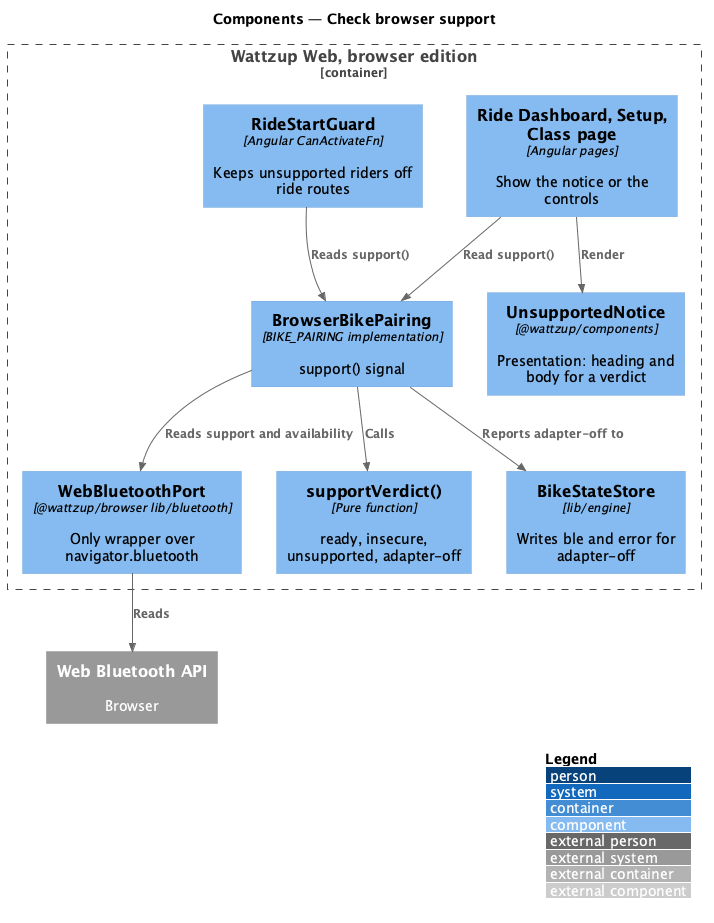
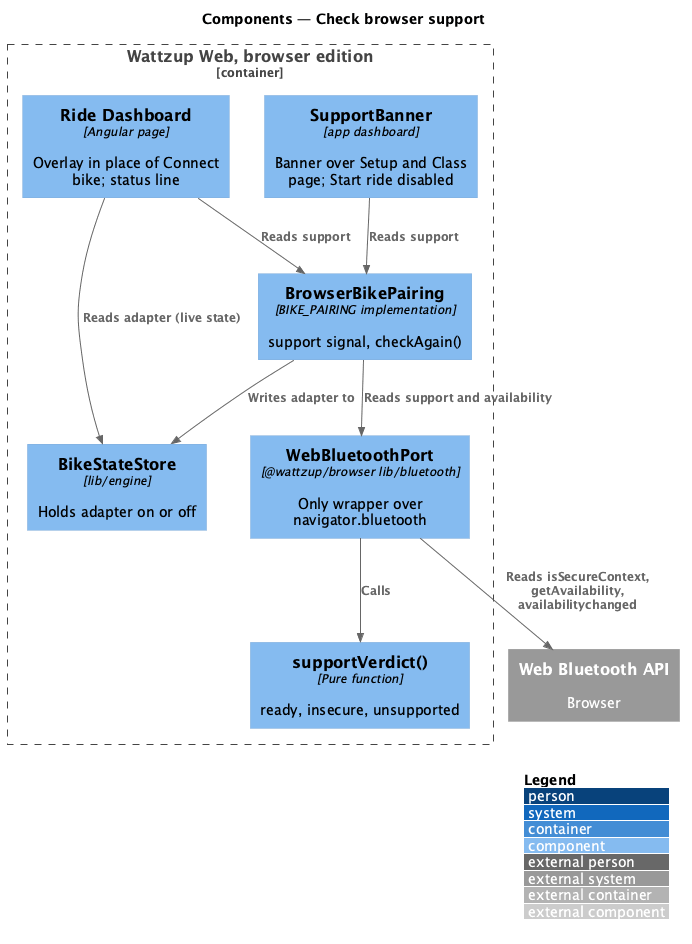
Block starting a ride on setup and class pages the browser cannot ride from (L2-089)
SupportBanner shows the browser mocks' warning banner under the header
of Ride Setup and a class page when Web Bluetooth is missing or the
page is on plain http: Copy link, or Open over HTTPS through the
alert's new link action. The page stays usable; Start ride is
disabled and described by the reason under it. supportNotice words
both, with unit tests.

Claude-Session: https://claude.ai/code/session_01LjZiMpoGntqpkHCTb1UvJf

diff --git a/frontend/e2e/browser/support.spec.ts b/frontend/e2e/browser/support.spec.ts
@@ -2,10 +2,12 @@
 // Traces to: L2-089
 // Description: The ride dashboard says why a ride cannot start when the browser has no Web
 // Bluetooth, the page is not on HTTPS, or the device's Bluetooth is off, and offers no Connect
-// bike; with Bluetooth back on, Connect bike returns. Classes stay readable.
+// bike; with Bluetooth back on, Connect bike returns. Classes stay readable. Setup and class pages
+// stay usable under a banner, with Start ride disabled.
 import { expect, test } from './fixtures/browser-test';
 import { BrowserClassesPage } from './pages/browser-classes.page';
 import { BrowserRidePage } from './pages/browser-ride.page';
+import { BrowserSetupPage } from './pages/browser-setup.page';
 
 test('a browser without Web Bluetooth says to open Wattzup in Chrome or Edge; classes stay readable', async ({
   page,
@@ -58,4 +60,34 @@ test('Bluetooth off says so in the status line, and Connect bike returns once it
   await expect(ride.connectButton).toBeVisible();
   await expect(ride.notice).toHaveCount(0);
   expect(await bluetooth.count('requestDevice')).toBe(0);
+});
+
+test('setup without Web Bluetooth stays usable under a banner, with Start ride disabled', async ({
+  page,
+  bluetooth,
+}) => {
+  await bluetooth.removeBeforeLoad();
+  const setup = new BrowserSetupPage(page);
+  await setup.goto();
+  await expect(setup.banner).toContainText('Open Wattzup in Chrome or Edge.');
+  await expect(setup.banner.getByRole('button', { name: 'Copy link' })).toBeVisible();
+  await expect(setup.startButton).toBeDisabled();
+  await expect(setup.startHint).toHaveText('Needs Chrome or Edge to reach the bike.');
+});
+
+test('a class page on plain http offers the HTTPS page, with Start ride disabled', async ({
+  page,
+  bluetooth,
+}) => {
+  await bluetooth.insecureBeforeLoad();
+  const classes = new BrowserClassesPage(page);
+  await classes.openLibrary();
+  await classes.cards.first().click();
+  await expect(classes.banner).toContainText('Open the secure version of this page.');
+  await expect(classes.banner.getByRole('link', { name: 'Open over HTTPS' })).toHaveAttribute(
+    'href',
+    page.url().replace(/^http:/, 'https:'),
+  );
+  await expect(classes.startButton).toBeDisabled();
+  await expect(classes.startHint).toHaveText('Needs the HTTPS page to reach the bike.');
 });

diff --git a/frontend/projects/wattzup/src/app/dashboard/class-page/class-page.ts b/frontend/projects/wattzup/src/app/dashboard/class-page/class-page.ts
@@ -14,7 +14,9 @@ import {
 import { Title } from '@angular/platform-browser';
 import { HttpErrorResponse } from '@angular/common/http';
 import { Router, RouterLink } from '@angular/router';
-import { CLASS_API, type ClassEntry, WORKOUT_API } from '@wattzup/api';
+import { BIKE_PAIRING, CLASS_API, type ClassEntry, WORKOUT_API } from '@wattzup/api';
+import { supportNotice } from '../../core/support-notice';
+import { SupportBanner } from '../support-banner/support-banner';
 import { Alert, Icon, LevelRow, NumberStepper, StatusLine } from '@wattzup/components';
 import {
   cadenceLine,
@@ -47,7 +49,16 @@ type Phase = 'loading' | 'ready' | 'not-found';
 /** Route `/classes/:id`: one class, its video and plan, and Start ride (L2-080). */
 @Component({
   selector: 'wz-class-page',
-  imports: [Alert, ClassNotFound, Icon, LevelRow, NumberStepper, RouterLink, StatusLine],
+  imports: [
+    Alert,
+    ClassNotFound,
+    Icon,
+    LevelRow,
+    NumberStepper,
+    RouterLink,
+    StatusLine,
+    SupportBanner,
+  ],
   templateUrl: './class-page.html',
   styleUrl: './class-page.scss',
   changeDetection: ChangeDetectionStrategy.OnPush,
@@ -71,6 +82,12 @@ export class ClassPage {
   protected readonly entry = signal<ClassEntry | null>(null);
   protected readonly draft = signal<ClassDraft | null>(null);
   protected readonly busy = signal(false);
+  /** Why Start ride is disabled when the browser cannot reach Bluetooth (L2-089 AC1, AC3). */
+  protected readonly startBlocked = computed(
+    () => supportNotice(this.pairing.support(), '')?.startHint ?? null,
+  );
+  private readonly pairing = inject(BIKE_PAIRING);
+
   protected readonly startFailed = signal(false);
 
   protected readonly preview = computed(() => {

diff --git a/frontend/projects/wattzup/src/app/core/support-notice.ts b/frontend/projects/wattzup/src/app/core/support-notice.ts
@@ -1,0 +1,39 @@
+// What setup and a class page say when the browser edition cannot reach Bluetooth (L2-089 AC1,
+// AC3): a banner over a page that stays usable, and why Start ride is disabled.
+import type { BluetoothSupport } from '@wattzup/api';
+
+export interface SupportNotice {
+  icon: 'monitor-off' | 'lock';
+  heading: string;
+  text: string;
+  actionLabel: 'Copy link' | 'Open over HTTPS';
+  /** The HTTPS address to open; null when the action copies the page's own address. */
+  href: string | null;
+  /** Under the disabled Start ride. */
+  startHint: string;
+}
+
+export function supportNotice(support: BluetoothSupport, pageUrl: string): SupportNotice | null {
+  switch (support) {
+    case 'unsupported':
+      return {
+        icon: 'monitor-off',
+        heading: 'Open Wattzup in Chrome or Edge.',
+        text: 'Bluetooth to the bike only works there — you can look around, but not ride.',
+        actionLabel: 'Copy link',
+        href: null,
+        startHint: 'Needs Chrome or Edge to reach the bike.',
+      };
+    case 'insecure':
+      return {
+        icon: 'lock',
+        heading: 'Open the secure version of this page.',
+        text: 'Bluetooth is blocked on plain http, so the bike can’t connect.',
+        actionLabel: 'Open over HTTPS',
+        href: pageUrl.replace(/^http:/, 'https:'),
+        startHint: 'Needs the HTTPS page to reach the bike.',
+      };
+    default:
+      return null;
+  }
+}

diff --git a/frontend/projects/wattzup/src/app/dashboard/setup-page/setup-page.ts b/frontend/projects/wattzup/src/app/dashboard/setup-page/setup-page.ts
@@ -11,7 +11,9 @@ import {
 import { Router, RouterLink } from '@angular/router';
 import { DialogLauncher } from '../../core/dialog-launcher';
 import { formatDuration } from '../../core/format-duration';
-import { type StartPlan, WORKOUT_API } from '@wattzup/api';
+import { BIKE_PAIRING, type StartPlan, WORKOUT_API } from '@wattzup/api';
+import { supportNotice } from '../../core/support-notice';
+import { SupportBanner } from '../support-banner/support-banner';
 import { planVideo } from '../../core/video-link';
 import { LiveStateService } from '../../core/live-state.service';
 import { liveConnectionStatus } from '../../core/connection-status';
@@ -79,6 +81,7 @@ type StartError = { kind: 'invalid'; messages: string[] } | { kind: 'failed' };
 @Component({
   selector: 'wz-setup-page',
   imports: [
+    SupportBanner,
     Alert,
     FormSummary,
     Icon,
@@ -162,6 +165,12 @@ export class SetupPage {
 
   protected readonly loading = computed(() => !this.live.state() && !this.live.loadFailed());
   protected readonly busy = signal(false);
+  /** Why Start ride is disabled when the browser cannot reach Bluetooth (L2-089 AC1, AC3). */
+  protected readonly startBlocked = computed(
+    () => supportNotice(this.pairing.support(), '')?.startHint ?? null,
+  );
+  private readonly pairing = inject(BIKE_PAIRING);
+
   protected readonly startError = signal<StartError | null>(null);
 
   constructor() {

diff --git a/frontend/projects/wattzup/src/app/dashboard/support-banner/support-banner.ts b/frontend/projects/wattzup/src/app/dashboard/support-banner/support-banner.ts
@@ -1,0 +1,32 @@
+import { ChangeDetectionStrategy, Component, computed, inject, signal } from '@angular/core';
+import { BIKE_PAIRING } from '@wattzup/api';
+import { Alert } from '@wattzup/components';
+import { supportNotice } from '../../core/support-notice';
+
+/** The banner under the header of setup and a class page when the browser edition cannot reach
+ * Bluetooth (L2-089). The page stays usable; only starting a ride is blocked. */
+@Component({
+  selector: 'wz-support-banner',
+  imports: [Alert],
+  templateUrl: './support-banner.html',
+  styleUrl: './support-banner.scss',
+  changeDetection: ChangeDetectionStrategy.OnPush,
+})
+export class SupportBanner {
+  private readonly pairing = inject(BIKE_PAIRING);
+  protected readonly notice = computed(() => supportNotice(this.pairing.support(), location.href));
+  /** Copy link reads Link copied for 1.6 s, as on the ride dashboard. */
+  protected readonly copied = signal(false);
+  private timer: ReturnType<typeof setTimeout> | null = null;
+
+  protected async copy(): Promise<void> {
+    try {
+      await navigator.clipboard.writeText(location.href);
+    } catch {
+      return;
+    }
+    this.copied.set(true);
+    if (this.timer) clearTimeout(this.timer);
+    this.timer = setTimeout(() => this.copied.set(false), 1600);
+  }
+}

diff --git a/frontend/projects/wattzup/src/app/dashboard/setup-page/setup-page.html b/frontend/projects/wattzup/src/app/dashboard/setup-page/setup-page.html
@@ -14,6 +14,7 @@
       ><wz-icon name="close" size="sm" />Close</a
     >
   </header>
+  <wz-support-banner />
   <div class="setup-layout">
     <main id="main" class="setup-main" tabindex="-1" [attr.aria-busy]="loading() ? 'true' : null">
       <div class="setup-main__inner">
@@ -170,14 +171,18 @@
       <button
         class="btn btn--volt btn--xl btn--block"
         type="button"
-        [disabled]="loading() || busy() || links().length > 0"
+        [disabled]="loading() || busy() || links().length > 0 || startBlocked() !== null"
         [attr.aria-busy]="busy() ? 'true' : null"
-        [attr.aria-describedby]="links().length ? 'start-hint' : null"
+        [attr.aria-describedby]="
+          startBlocked() !== null ? 'start-blocked' : links().length ? 'start-hint' : null
+        "
         (click)="start()"
       >
         {{ busy() ? 'Starting…' : startError() ? 'Try again' : 'Start ride' }}
       </button>
-      @if (links().length) {
+      @if (startBlocked(); as hint) {
+        <p id="start-blocked" class="text-muted text-sm setup-start-hint">{{ hint }}</p>
+      } @else if (links().length) {
         <p id="start-hint" class="text-muted text-sm setup-start-hint">
           {{ startHint() }}
         </p>

diff --git a/frontend/projects/wattzup/src/app/dashboard/class-page/class-page.html b/frontend/projects/wattzup/src/app/dashboard/class-page/class-page.html
@@ -14,6 +14,7 @@
     >
     <wz-status-line class="app-bar__close" [status]="status()" [reducedMotion]="reducedMotion()" />
   </header>
+  <wz-support-banner />
   @switch (phase()) {
     @case ('not-found') {
       <wz-class-not-found />
@@ -196,12 +197,16 @@
             <button
               class="btn btn--primary btn--xl btn--block"
               type="button"
-              [disabled]="busy()"
+              [disabled]="busy() || startBlocked() !== null"
               [attr.aria-busy]="busy() ? 'true' : null"
+              [attr.aria-describedby]="startBlocked() !== null ? 'start-blocked' : null"
               (click)="start()"
             >
               {{ busy() ? 'Starting…' : startFailed() ? 'Try again' : 'Start ride' }}
             </button>
+            @if (startBlocked(); as hint) {
+              <p id="start-blocked" class="class-page__start-hint">{{ hint }}</p>
+            }
             @if (busy()) {
               <button class="btn btn--quiet btn--block" type="button" disabled>
                 Change intervals in full setup

diff --git a/frontend/projects/wattzup/src/app/core/support-notice.spec.ts b/frontend/projects/wattzup/src/app/core/support-notice.spec.ts
@@ -1,0 +1,29 @@
+import { supportNotice } from './support-notice';
+
+describe('supportNotice (L2-089)', () => {
+  const url = 'http://wattzup.example/setup';
+
+  it('says nothing when Bluetooth can be reached', () => {
+    expect(supportNotice('ready', url)).toBeNull();
+  });
+
+  it('asks for Chrome or Edge, copying the page address, where Web Bluetooth is missing', () => {
+    const n = supportNotice('unsupported', url)!;
+    expect([n.heading, n.actionLabel, n.href, n.startHint]).toEqual([
+      'Open Wattzup in Chrome or Edge.',
+      'Copy link',
+      null,
+      'Needs Chrome or Edge to reach the bike.',
+    ]);
+  });
+
+  it('links the same page over HTTPS on plain http', () => {
+    const n = supportNotice('insecure', url)!;
+    expect([n.heading, n.actionLabel, n.href, n.startHint]).toEqual([
+      'Open the secure version of this page.',
+      'Open over HTTPS',
+      'https://wattzup.example/setup',
+      'Needs the HTTPS page to reach the bike.',
+    ]);
+  });
+});

diff --git a/frontend/e2e/browser/pages/browser-classes.page.ts b/frontend/e2e/browser/pages/browser-classes.page.ts
@@ -9,6 +9,8 @@ export class BrowserClassesPage {
   readonly emptyTitle: Locator;
   readonly emptyBuildYourOwn: Locator;
   readonly startButton: Locator;
+  readonly startHint: Locator;
+  readonly banner: Locator;
 
   constructor(readonly page: Page) {
     this.heading = page.getByRole('heading', { level: 1 });
@@ -19,6 +21,8 @@ export class BrowserClassesPage {
       .locator('.library .empty')
       .getByRole('link', { name: 'Build your own ride' });
     this.startButton = page.getByRole('button', { name: /^(Start ride|Starting…)$/ });
+    this.startHint = page.locator('#start-blocked');
+    this.banner = page.locator('.banner[role="alert"]');
   }
 
   /** Answers the edition's request for `classes.json` with this text, or with a 404. */

diff --git a/frontend/e2e/browser/pages/browser-setup.page.ts b/frontend/e2e/browser/pages/browser-setup.page.ts
@@ -3,11 +3,20 @@ import type { Locator, Page } from '@playwright/test';
 /** Ride Setup at `/setup` in the browser edition. Owns its selectors. */
 export class BrowserSetupPage {
   readonly startButton: Locator;
+  readonly startHint: Locator;
+  readonly banner: Locator;
 
   constructor(private readonly page: Page) {
     this.startButton = page
       .getByRole('complementary', { name: 'Ride preview' })
       .locator('.setup-aside__foot .btn--volt');
+    this.startHint = page.locator('#start-blocked');
+    this.banner = page.locator('.banner[role="alert"]');
+  }
+
+  /** Opens /setup straight from its address. */
+  async goto(): Promise<void> {
+    await this.page.goto('/setup');
   }
 
   async open(): Promise<void> {

diff --git a/frontend/projects/components/src/lib/alert/alert.html b/frontend/projects/components/src/lib/alert/alert.html
@@ -15,7 +15,11 @@
     <ng-content />
     @if (actionLabel(); as label) {
       <div class="alert__actions">
-        <button type="button" (click)="action.emit()">{{ label }}</button>
+        @if (actionHref(); as href) {
+          <a [href]="href">{{ label }}</a>
+        } @else {
+          <button type="button" (click)="action.emit()">{{ label }}</button>
+        }
       </div>
     }
   </div>

diff --git a/frontend/projects/components/src/lib/alert/alert.ts b/frontend/projects/components/src/lib/alert/alert.ts
@@ -16,6 +16,8 @@ export class Alert {
   readonly text = input<string | null>(null);
   readonly banner = input(false);
   readonly actionLabel = input<string | null>(null);
+  /** Makes the action a link to this address instead of a button. */
+  readonly actionHref = input<string | null>(null);
   readonly dismissable = input(false);
   readonly action = output();
   readonly dismiss = output();
